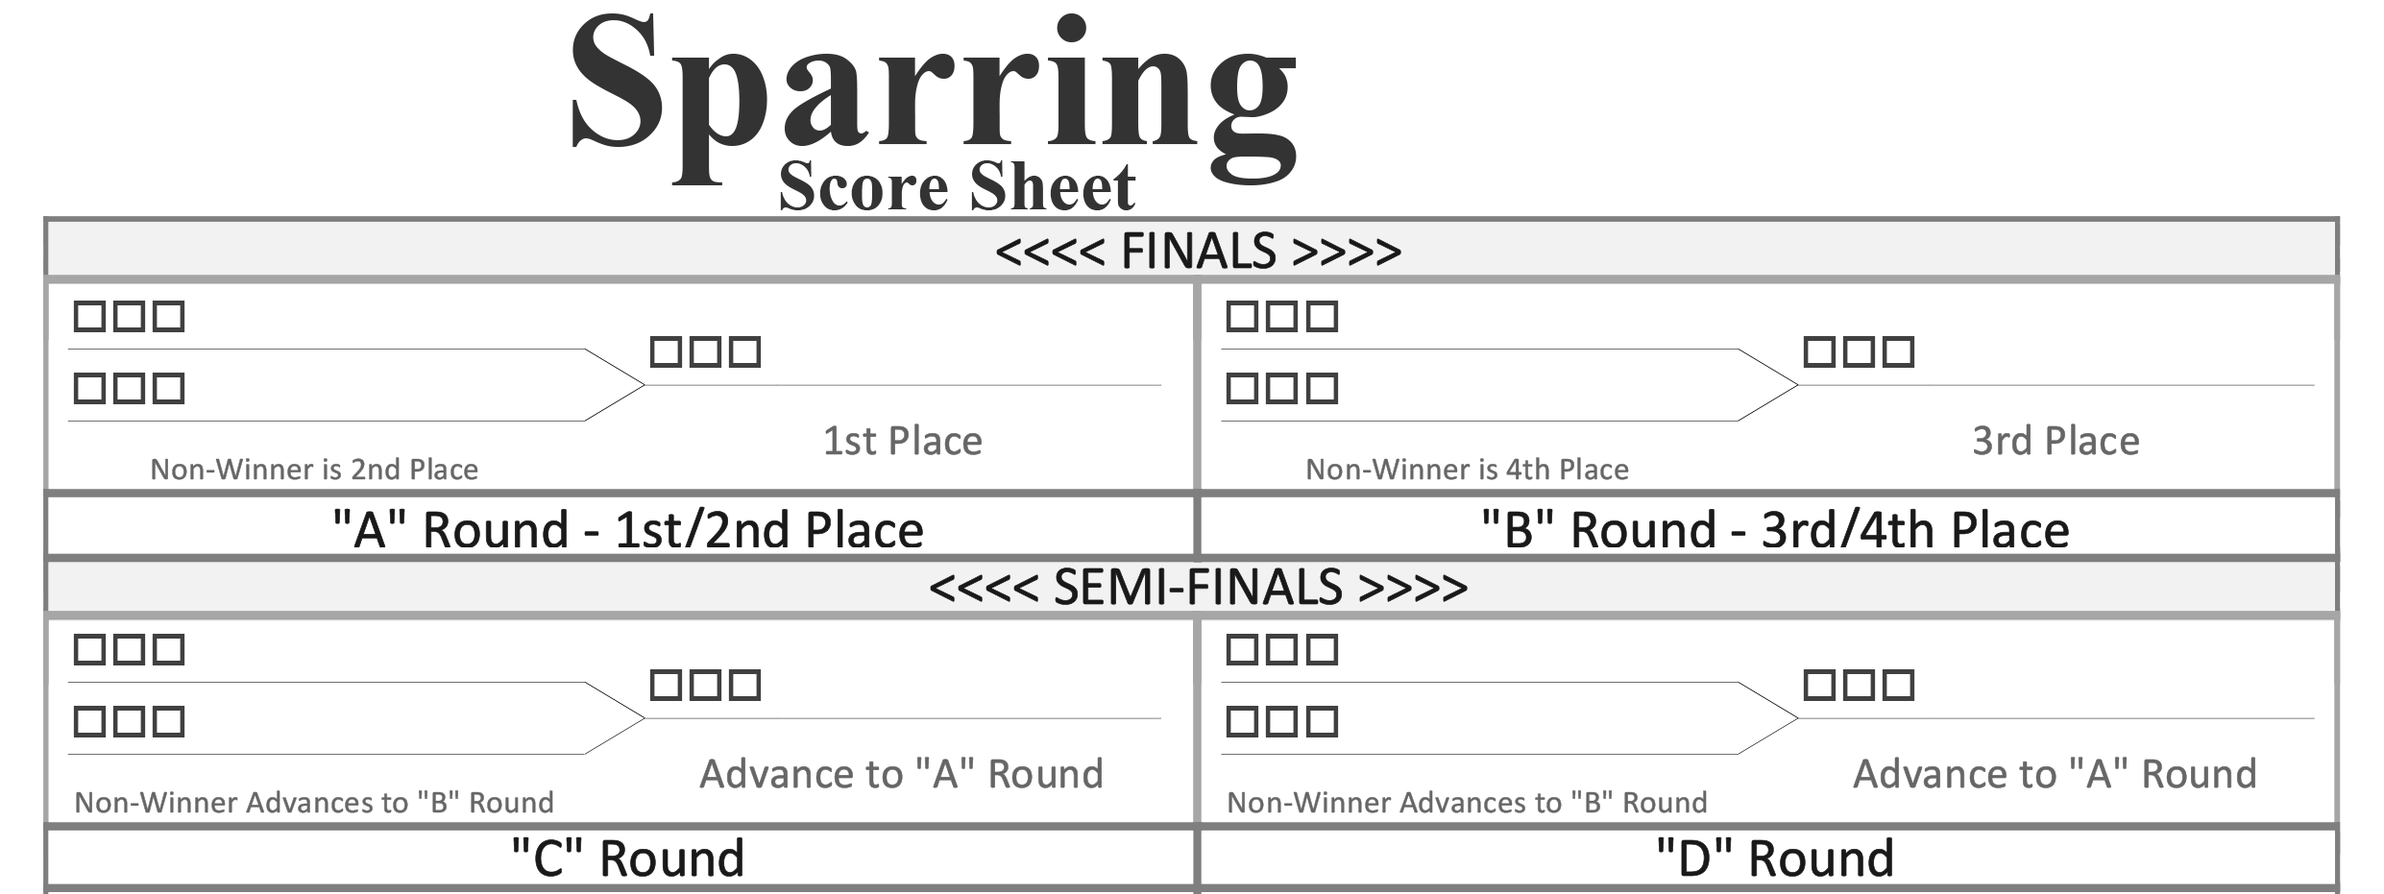
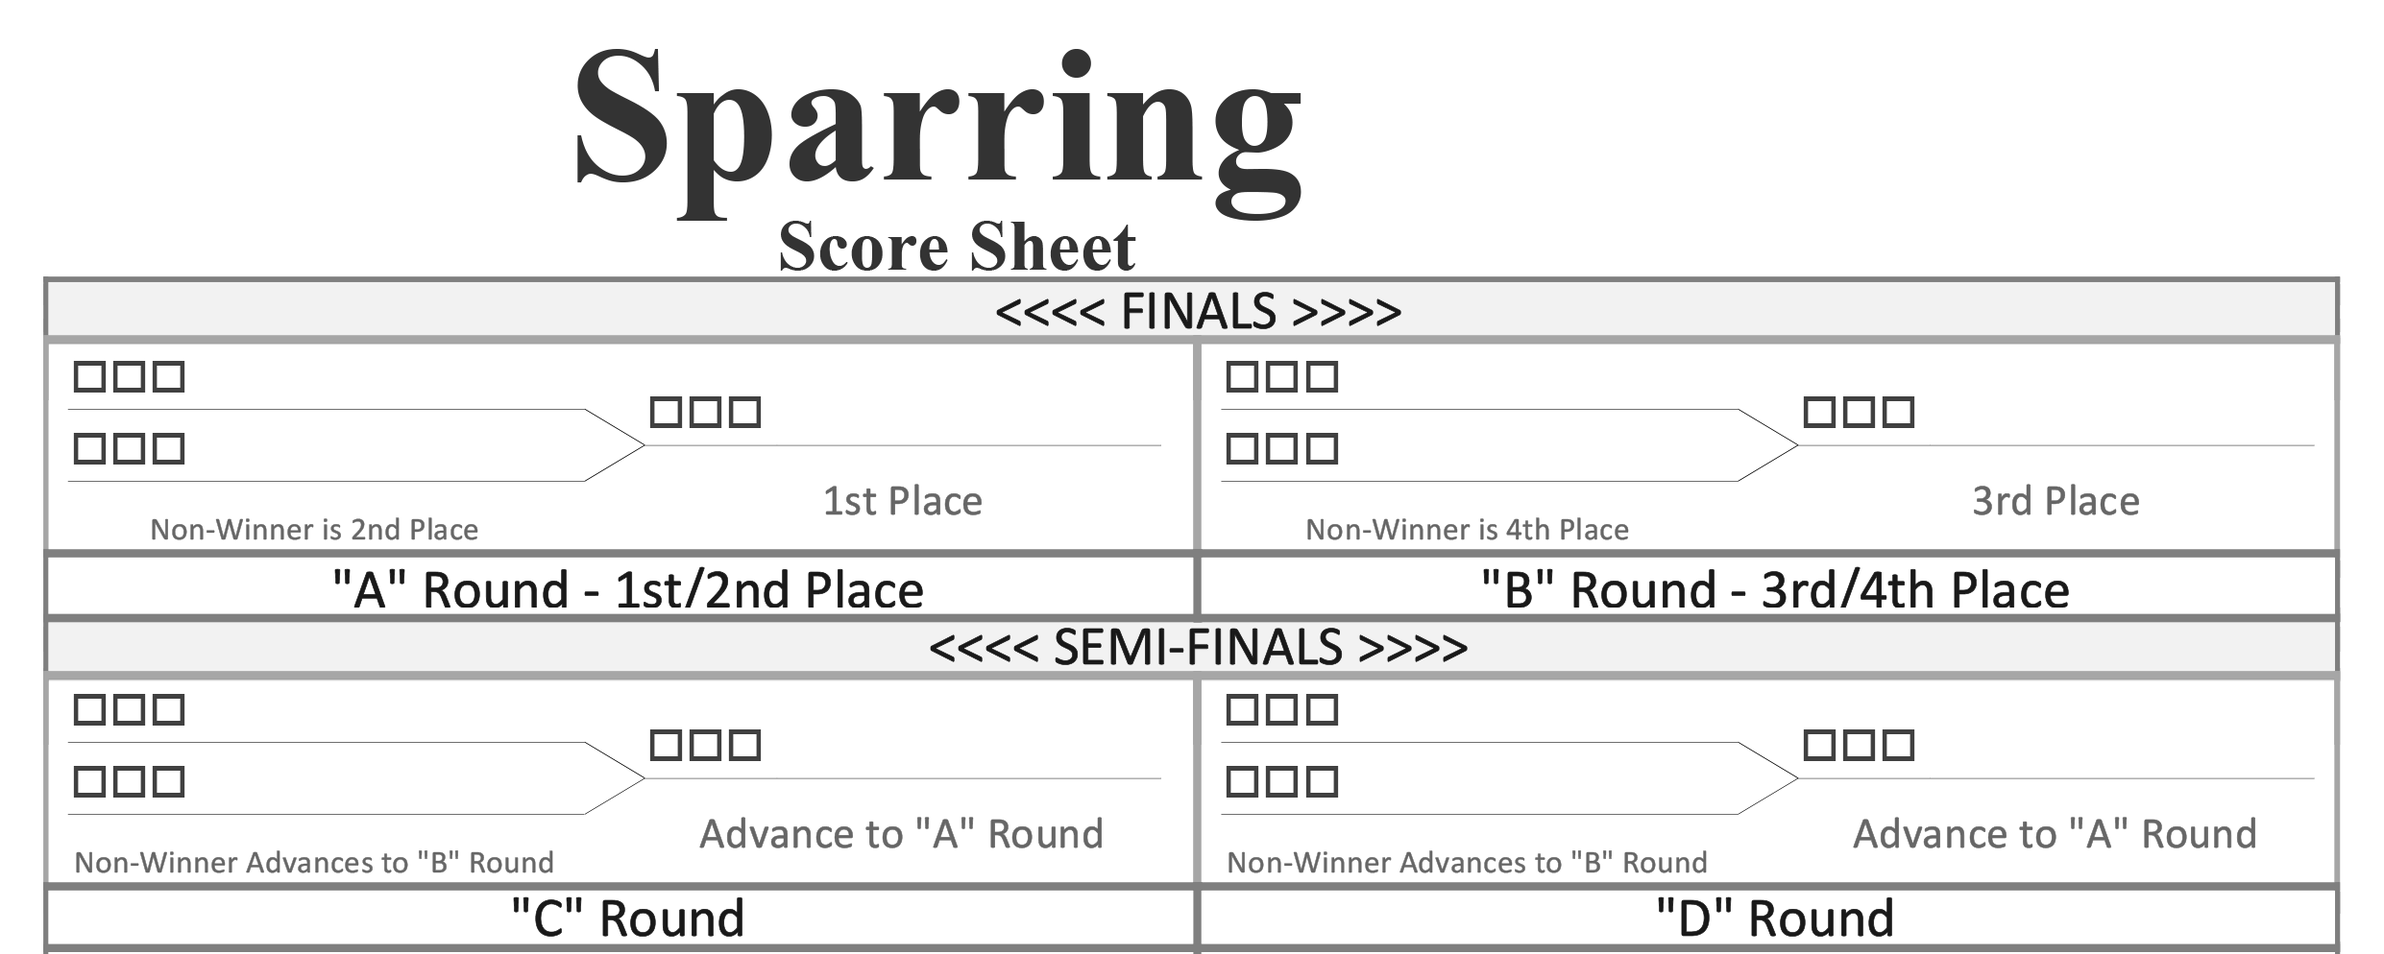
finished new 8 person sparring tree

Changed region(s): [[0.0, 0.0, 0.9927, 0.9968], [0.2482, 0.7476, 0.3413, 0.8099], [0.7446, 0.7476, 0.8066, 0.8099]]

diff --git a/reports/sparring_tree/new_eight_competitor_sparring_tree_test.py b/reports/sparring_tree/new_eight_competitor_sparring_tree_test.py
@@ -7,10 +7,12 @@ nosetests --with-coverage
 import unittest
 import os
 import logging
+from pathlib import Path
 
 from reportlab.pdfgen import canvas
 from reports.sparring_tree.new_eight_competitor_sparring_tree import NewEightCompetitorTree
 from domain_model.competitors import Competitors
+
 
 REMOVE_TEST_FILES = False
 
@@ -19,7 +21,7 @@ REMOVE_TEST_FILES = False
 # import eight_competitor_tree
 
 # data for the tests
-TEST_DATA_COLUMNS = ['index', 'First_Name', 'Last_Name', 'Gender', 'Dojo', 'Age', 'Rank', 'Feet', 'Inches', 'Height',
+TEST_DATA_COLUMNS = ['Registrant_ID', 'First_Name', 'Last_Name', 'Gender', 'Dojo', 'Age', 'Rank', 'Feet', 'Inches', 'Height',
                      'Weight', 'BMI', 'Events', 'Weapons', 'hitcount']
 
 TEST_DATA = [(1, 'Katie', 'Coleson', 'Female', 'CO- Parker', 12, 'White', 4, 0, '4', 65, 161,
@@ -42,12 +44,17 @@ class TestNewNewEightCompetitorTree(unittest.TestCase):
         try:
             os.mkdir("testoutput")
         except:
-            logging.info("exptedted error")
+            logging.info("expected error")
         return
 
     def test_creating_a_file(self):
+        # set the cwd to the project root
+        # path = os.getcwd()
+        new_path = Path(__file__).resolve().parents[2]
+        os.chdir(new_path)
+
         ''' simple test to make sure we can create a file with the template code in it'''
-        test_file_name = "testoutput//8PersonTree_Create_File.pdf"
+        test_file_name = "reports//sparring_tree//testoutput//8PersonTree_Create_File.pdf"
         test_canvas = canvas.Canvas(test_file_name)
         tree = NewEightCompetitorTree(test_canvas,test_file_name)
         tree.draw_static_template()
@@ -61,7 +68,12 @@ class TestNewNewEightCompetitorTree(unittest.TestCase):
 
     def test_creating_a_file_with_two_tree(self):
         ''' tests that we can create a PDF with multiple sparring trees in it'''
-        test_file_name = "testoutput//8PersonTree_Two_Trees.pdf"
+        # set the cwd to the project root
+        # path = os.getcwd()
+        new_path = Path(__file__).resolve().parents[2]
+        os.chdir(new_path)
+
+        test_file_name = "reports//sparring_tree//testoutput//8PersonTree_Two_Trees.pdf"
         test_canvas = canvas.Canvas(test_file_name)
         tree = NewEightCompetitorTree(test_canvas, test_file_name)
 
@@ -80,7 +92,12 @@ class TestNewNewEightCompetitorTree(unittest.TestCase):
 
     def test_initialize_text_coordinates(self):
         ''' test to make sure the text coordinates are initialized '''
-        test_file_name = "testoutput//8PersonTree_Init_Text_Coords.pdf"
+        # set the cwd to the project root
+        # path = os.getcwd()
+        new_path = Path(__file__).resolve().parents[2]
+        os.chdir(new_path)
+
+        test_file_name = "reports//sparring_tree//testoutput//8PersonTree_Init_Text_Coords.pdf"
         test_canvas = canvas.Canvas(test_file_name)
         tree = NewEightCompetitorTree(test_canvas, test_file_name)
         self.assertTrue(len(tree._first_column_text_coordinates) == 8)
@@ -97,9 +114,13 @@ class TestNewNewEightCompetitorTree(unittest.TestCase):
 
     def test_draw_8_names_on_tree(self):
         ''' tests to make sure the names in an 8 person tree get put in the right place'''
+        # set the cwd to the project root
+        # path = os.getcwd()
+        new_path = Path(__file__).resolve().parents[2]
+        os.chdir(new_path)
 
         # setup an 8 person tree
-        test_file_name = "testoutput//8PersonTree.pdf"
+        test_file_name = "reports//sparring_tree//testoutput//8PersonTree.pdf"
         test_canvas = canvas.Canvas(test_file_name)
         tree = NewEightCompetitorTree(test_canvas, test_file_name)
         tree.draw_static_template()
@@ -124,9 +145,13 @@ class TestNewNewEightCompetitorTree(unittest.TestCase):
 
     def test_draw_7_names_on_tree(self):
         ''' tests to make sure the names in an 8 person tree get put in the right place'''
+        # set the cwd to the project root
+        # path = os.getcwd()
+        new_path = Path(__file__).resolve().parents[2]
+        os.chdir(new_path)
 
         # setup an 7 person tree
-        test_file_name = "testoutput//7PersonTree.pdf"
+        test_file_name = "reports//sparring_tree//testoutput//7PersonTree.pdf"
         test_canvas = canvas.Canvas(test_file_name)
         tree = NewEightCompetitorTree(test_canvas, test_file_name)
         tree.draw_static_template()
@@ -150,9 +175,13 @@ class TestNewNewEightCompetitorTree(unittest.TestCase):
 
     def test_draw_6_names_on_tree(self):
         ''' tests to make sure the names in an 8 person tree get put in the right place'''
+        # set the cwd to the project root
+        # path = os.getcwd()
+        new_path = Path(__file__).resolve().parents[2]
+        os.chdir(new_path)
 
         # setup 6 person tree
-        test_file_name = "testoutput//6PersonTree.pdf"
+        test_file_name = "reports//sparring_tree//testoutput//6PersonTree.pdf"
         test_canvas = canvas.Canvas(test_file_name)
         tree = NewEightCompetitorTree(test_canvas, test_file_name)
         tree.draw_static_template()
@@ -176,9 +205,13 @@ class TestNewNewEightCompetitorTree(unittest.TestCase):
 
     def test_draw_5_names_on_tree(self):
         ''' tests to make sure the names in an 8 person tree get put in the right place'''
+        # set the cwd to the project root
+        # path = os.getcwd()
+        new_path = Path(__file__).resolve().parents[2]
+        os.chdir(new_path)
 
         # setup 5 person tree
-        test_file_name = "testoutput//5PersonTree.pdf"
+        test_file_name = "reports//sparring_tree//testoutput//5PersonTree.pdf"
         test_canvas = canvas.Canvas(test_file_name)
         tree = NewEightCompetitorTree(test_canvas, test_file_name)
         tree.draw_static_template()
@@ -202,9 +235,13 @@ class TestNewNewEightCompetitorTree(unittest.TestCase):
 
     def test_draw_4_names_on_tree(self):
         ''' tests to make sure the names in an 8 person tree get put in the right place'''
+        # set the cwd to the project root
+        # path = os.getcwd()
+        new_path = Path(__file__).resolve().parents[2]
+        os.chdir(new_path)
 
         # setup 4 person tree
-        test_file_name = "testoutput//4PersonTree.pdf"
+        test_file_name = "reports//sparring_tree//testoutput//4PersonTree.pdf"
         test_canvas = canvas.Canvas(test_file_name)
         tree = NewEightCompetitorTree(test_canvas, test_file_name)
         tree.draw_static_template()
@@ -228,9 +265,13 @@ class TestNewNewEightCompetitorTree(unittest.TestCase):
 
     def test_draw_3_names_on_tree(self):
         ''' tests to make sure the names in an 8 person tree get put in the right place'''
+        # set the cwd to the project root
+        # path = os.getcwd()
+        new_path = Path(__file__).resolve().parents[2]
+        os.chdir(new_path)
 
         # setup 3 person tree
-        test_file_name = "testoutput//3PersonTree.pdf"
+        test_file_name = "reports//sparring_tree//testoutput//3PersonTree_full_page.pdf"
         test_canvas = canvas.Canvas(test_file_name)
         tree = NewEightCompetitorTree(test_canvas, test_file_name)
         tree.draw_static_template()
@@ -255,8 +296,13 @@ class TestNewNewEightCompetitorTree(unittest.TestCase):
     def test_draw_2_names_on_tree(self):
         ''' tests to make sure the names in an 8 person tree get put in the right place'''
 
+        # set the cwd to the project root
+        # path = os.getcwd()
+        new_path = Path(__file__).resolve().parents[2]
+        os.chdir(new_path)
+
         # setup 2 person tree
-        test_file_name = "testoutput//2PersonTree.pdf"
+        test_file_name = "reports//sparring_tree//testoutput//2PersonTree_full_page.pdf"
         test_canvas = canvas.Canvas(test_file_name)
         tree = NewEightCompetitorTree(test_canvas, test_file_name)
         tree.draw_static_template()
@@ -280,9 +326,13 @@ class TestNewNewEightCompetitorTree(unittest.TestCase):
 
     def test_draw_1_names_on_tree(self):
         ''' tests to make sure the names in an 8 person tree get put in the right place'''
+        # set the cwd to the project root
+        # path = os.getcwd()
+        new_path = Path(__file__).resolve().parents[2]
+        os.chdir(new_path)
 
         # setup 1 person tree
-        test_file_name = "testoutput//1PersonTree.pdf"
+        test_file_name = "reports//sparring_tree//testoutput//1PersonTree_full_page.pdf"
         test_canvas = canvas.Canvas(test_file_name)
         tree = NewEightCompetitorTree(test_canvas, test_file_name)
         tree.draw_static_template()
@@ -310,10 +360,16 @@ class TestNewNewEightCompetitorTree(unittest.TestCase):
         #get the first and second column test coordinates from the tree
         #run the algorythm to map competitors into the tree
         # description of how to add a new column to an existing dataframe https://www.geeksforgeeks.org/adding-new-column-to-existing-dataframe-in-pandas/
+
+        # set the cwd to the project root
+        # path = os.getcwd()
+        new_path = Path(__file__).resolve().parents[2]
+        os.chdir(new_path)
+
         the_competitors = Competitors(TEST_DATA, columns=TEST_DATA_COLUMNS)  # create a list of competitors from the test data above
 
         # setup an 8 person tree
-        test_file_name = "testoutput//8PersonTree_from_competitors.pdf"
+        test_file_name = "reports//sparring_tree//testoutput//8PersonTree_full_page.pdf"
         test_canvas = canvas.Canvas(test_file_name)
         tree = NewEightCompetitorTree(test_canvas, test_file_name)
         tree.draw_static_template()
@@ -337,15 +393,22 @@ class TestNewNewEightCompetitorTree(unittest.TestCase):
         #get the first and second column test coordinates from the tree
         #run the algorythm to map competitors into the tree
         # description of how to add a new column to an existing dataframe https://www.geeksforgeeks.org/adding-new-column-to-existing-dataframe-in-pandas/
+
+
+        # set the cwd to the project root
+        # path = os.getcwd()
+        new_path = Path(__file__).resolve().parents[2]
+        os.chdir(new_path)
+
         the_competitors = Competitors(TEST_DATA, columns=TEST_DATA_COLUMNS)  # create a list of competitors from the test data above
 
         # setup an 8 person tree
-        test_file_name = "testoutput//8PersonTree_full_page.pdf"
+        test_file_name = "reports//sparring_tree//testoutput//8PersonTree_full_page.pdf"
         test_canvas = canvas.Canvas(test_file_name)
         tree = NewEightCompetitorTree(test_canvas, test_file_name)
 
         # draw the competitors onto the tree
-        tree.add_page_with_competitors_on_tree(1, "2:00", "Sr. Mens Sparring", "Black", the_competitors)
+        tree.add_page_with_competitors_on_tree(1, "2:00", "Boys Sparring",  "10-12","White - Yellow", "A-Z", the_competitors)
 
         # save the file
         test_canvas.save()

diff --git a/reports/sparring_tree/new_eight_competitor_sparring_tree.py b/reports/sparring_tree/new_eight_competitor_sparring_tree.py
@@ -1,4 +1,5 @@
 """ this module contains code to create an 8 person sparring tree"""
+import os
 import logging
 import datetime
 
@@ -47,12 +48,11 @@ class NewEightCompetitorTree(SparringTree):
 
 
     def initialize_text_coordinates(self):
-        '''initialize the text coordinates, two columns of x,y coordinate of where names gets drawn'''
 
         # calculate first column text coordinates top of the page to the bottom
         self._first_column_text_coordinates = []
-        initial_first_column_text_coords = [[.9, 20.4 + self._SPACE_BELOW_TEXT],
-                                            [.9, 18.2 + self._SPACE_BELOW_TEXT]]
+        initial_first_column_text_coords = [[.8, 18 + self._SPACE_BELOW_TEXT],
+                                            [.8, 16 + self._SPACE_BELOW_TEXT]]
         for i in range(4):
             offset = self.truncate(i * self._OFFSET_BETWEEN_BRANCHES_ON_TREE, 1)
             self._first_column_text_coordinates.append([initial_first_column_text_coords[0][0],
@@ -63,12 +63,11 @@ class NewEightCompetitorTree(SparringTree):
                                                                       1)])
 
         self._second_column_text_coordinates = []
-        initial_second_column_text_coords = [7.2, 19.4 + self._SPACE_BELOW_TEXT]
+        initial_second_column_text_coords = [7.2, 17 + self._SPACE_BELOW_TEXT]
         for i in range(4):
             offset = self.truncate(i * self._OFFSET_BETWEEN_BRANCHES_ON_TREE, 1)
             self._second_column_text_coordinates.append(
                 [initial_second_column_text_coords[0], self.truncate(initial_second_column_text_coords[1] - offset, 1)])
-        i = 0
 
     def draw_box(self, left, top):
         ''' draw a single checkbox at the coordinates provided '''
@@ -89,15 +88,16 @@ class NewEightCompetitorTree(SparringTree):
     def draw_static_template(self):
         # Draw the logo from the specified file
         logo = ImageReader('Z Ultimate Logo Rectangle-1Inch-300DPI.png')
-        self._c.drawImage(logo, 1 * cm, 26.125 * cm, 1.25 * cm, 1.75 * cm, mask='auto')
+        self._c.drawImage(logo, 1 * cm, 25.4 * cm, 1.875 * cm, 2.625 * cm, mask='auto')
 
         # Draw the static template portion of the tree - Note this template must be less than 3.5 inches tall (currently set for a 2482 x 931 300 dpi image)
         backgroundImageFilename='reports'+pathDelimiter()+'sparring_tree'+pathDelimiter()+'sparring_tree_template-300dpi.png'  #<--comment out for stand-alone testing
         #backgroundImageFilename='sparring_tree_template-300dpi.png'  #<--un-comment for stand-alone testing
         backgroundImage = ImageReader(backgroundImageFilename)
-        width,height=letter
-        yposition = height - 3.1 * inch
-        self._c.drawImage(backgroundImage, 0, yposition, 8.27 * inch, 3.10 * inch, mask='auto')
+        image_width, image_height = backgroundImage.getSize()
+        page_width,page_height=letter
+        yposition = page_height - ((image_height / 300) * inch)
+        self._c.drawImage(backgroundImage, 0, yposition, (image_width / 300) * inch, (image_height / 300 ) * inch, mask='auto')
         # self._c.drawImage(backgroundImage, 0, yposition, width=None, height=None, preserveAspectRatio=True, mask='auto')
 
 
@@ -105,26 +105,26 @@ class NewEightCompetitorTree(SparringTree):
         # # First bracket
         for i in range(4):
             offset = i * self._OFFSET_BETWEEN_BRANCHES_ON_TREE
-            self._path.moveTo(.8 * cm, (1.5 + offset) * cm)  # .8 cm to the right, 1.5 cm up
-            self._path.lineTo(6 * cm, (1.5 + offset) * cm)
+            self._path.moveTo(.8 * cm, (1.0 + offset) * cm)  # .8 cm to the right, 1.5 cm up
+            self._path.lineTo(6 * cm, (1.0 + offset) * cm)
 
-            self._path.lineTo(7.2 * cm, (2.5 + offset) * cm)
-            self._path.lineTo(6 * cm, (3.5 + offset) * cm)
-            self._path.lineTo(.8 * cm, (3.5 + offset) * cm)
+            self._path.lineTo(7.2 * cm, (2.0 + offset) * cm)
+            self._path.lineTo(6 * cm, (3.0 + offset) * cm)
+            self._path.lineTo(.8 * cm, (3.0 + offset) * cm)
 
-            self.draw_boxes(1.5, 1.5 + offset )
-            self.draw_boxes(1.5, 3.5 + offset )
+            self.draw_boxes(1.5, 1 + offset )
+            self.draw_boxes(1.5, 3 + offset )
 
         # Second bracket
         round_indicator = ['D', 'C']
         for i in range(2):
             offset = i * (self._OFFSET_BETWEEN_BRANCHES_ON_TREE * 2)
-            self._path.moveTo(7.2 * cm, (2.5 + offset) * cm)  # 7.2 cm to the right, 2.5 cm up
-            self._path.lineTo(12.4 * cm, (2.5 + offset) * cm)
-            self._c.drawString(8 * cm, (2.1 + offset) * cm, f"Advance to round {round_indicator[i]}")
-            self._path.moveTo(12.4 * cm, (7.5 + offset) * cm)
-            self._path.lineTo(7.2 * cm, (7.5 + offset) * cm)
-            self._c.drawString(8 * cm, (7.1 + offset) * cm, f"Advance to round {round_indicator[i]}")
+            self._path.moveTo(7.2 * cm, (2.0 + offset) * cm)  # 7.2 cm to the right, 2.5 cm up
+            self._path.lineTo(12.4 * cm, (2.0 + offset) * cm)
+            self._c.drawString(8 * cm, (1.6 + offset) * cm, f"Advance to round {round_indicator[i]}")
+            self._path.moveTo(12.4 * cm, (7.0 + offset) * cm)
+            self._path.lineTo(7.2 * cm, (7.0 + offset) * cm)
+            self._c.drawString(8 * cm, (6.6 + offset) * cm, f"Advance to round {round_indicator[i]}")
             # no need for boxes n second bracket
             # self.draw_boxes(7.9, 2.5 + offset)
             # self.draw_boxes(7.9, 7.5 + offset)
@@ -133,35 +133,31 @@ class NewEightCompetitorTree(SparringTree):
 
     def draw_header_info_on_tree(self, ring: int, event_time: str, event_title: str, age: str, ranks: str, split_label: str, number_of_competitors: int):
         ''' draw the header text onto the tree '''
-        # self._c.drawString(13 * cm, 26.5 * cm, "Time:")
-        # self._c.drawString(14.3 * cm, 26.5 * cm, event_time)
-        # self._c.drawString(13 * cm, 25.75 * cm, "Event:")
-        # self._c.drawString(14.3 * cm, 25.75 * cm, event_title)
-        # self._c.drawString(13 * cm, 25 * cm, "Rank:")
-        # self._c.drawString(14.3 * cm, 25 * cm, ranks)
-        # self._c.drawString(13 * cm, 24.25 * cm, "Ring#:")
-        # self._c.drawString(14.3 * cm, 24.25 * cm, str(ring))
-        # if split_label != '':
-        #     self._c.setFillColorRGB(255,0,0)
-        #     self._c.drawString(15 * cm, 24.25 * cm, 'Contestants '+ split_label)
-        #     self._c.setFillColorRGB(0, 0, 0)
-        # self._c.drawString(13 * cm, 23.5 *cm, "Competitors:")
-        # self._c.drawString(15.5 *cm, 23.5 *cm, "{}".format(number_of_competitors))
-        self._c.drawString(12.5 * cm, 26.5 * cm, "Ring:")
-        self._c.drawString(14.3 * cm, 26.5 * cm, f'{ring}   {event_time}')
-        self._c.drawString(12.5 * cm, 25.75 * cm, "Division:")
-        self._c.drawString(14.3 * cm, 25.75 * cm, event_title)
-        self._c.drawString(12.5 * cm, 25 * cm, "Age:")
-        self._c.drawString(14.3 * cm, 25 * cm, age)
+        # Define the starting position and the total height for the header
+        top_y = 27.5 * cm  # Starting y-coordinate
+        height = .9 * inch  # Total height for the header (3/4 inch)
+        line_spacing = height / 5  # Divide the height evenly for 5 fields
+
+        # Draw each field with adjusted vertical spacing
+        self._c.drawString(12.5 * cm, top_y, "Ring:")
+        self._c.drawString(14.3 * cm, top_y, f'{ring}   {event_time}')
+
+        self._c.drawString(12.5 * cm, top_y - line_spacing, "Division:")
+        self._c.drawString(14.3 * cm, top_y - line_spacing, event_title)
+
+        self._c.drawString(12.5 * cm, top_y - 2 * line_spacing, "Age:")
+        self._c.drawString(14.3 * cm, top_y - 2 * line_spacing, age)
+
         if split_label != '':
-            self._c.setFillColorRGB(255,0,0)
-            self._c.drawString(15.5 * cm, 25 * cm, 'Contestants '+ split_label)
+            self._c.setFillColorRGB(255, 0, 0)
+            self._c.drawString(15.5 * cm, top_y - 2 * line_spacing, 'Contestants ' + split_label)
             self._c.setFillColorRGB(0, 0, 0)
 
-        self._c.drawString(12.5 * cm, 24.25 * cm, "Ranks:")
-        self._c.drawString(14.3 * cm, 24.25 * cm, ranks)
-        self._c.drawString(12.5 * cm, 23.5 *cm, "Competitors:")
-        self._c.drawString(15.5 *cm, 23.5 *cm, "{}".format(number_of_competitors))
+        self._c.drawString(12.5 * cm, top_y - 3 * line_spacing, "Ranks:")
+        self._c.drawString(14.3 * cm, top_y - 3 * line_spacing, ranks)
+
+        self._c.drawString(12.5 * cm, top_y - 4 * line_spacing, "Competitors:")
+        self._c.drawString(15.5 * cm, top_y - 4 * line_spacing, "{}".format(number_of_competitors))
 
         #write the footer as well
         self._c.saveState()

diff --git a/reports/sparring_tree/sixteen_competitor_sparring_tree_test.py b/reports/sparring_tree/sixteen_competitor_sparring_tree_test.py
@@ -233,6 +233,12 @@ class TestSixteenCompetitorTree(unittest.TestCase):
         # get the first and second column test coordinates from the tree
         # run the algorythm to map competitors into the tree
         # description of how to add a new column to an existing dataframe https://www.geeksforgeeks.org/adding-new-column-to-existing-dataframe-in-pandas/
+
+        # set the cwd to the project root
+        # path = os.getcwd()
+        new_path = Path(__file__).resolve().parents[2]
+        os.chdir(new_path)
+
         the_competitors = Competitors(TEST_DATA,
                                       columns=TEST_DATA_COLUMNS)  # create a list of competitors from the test data above
 
